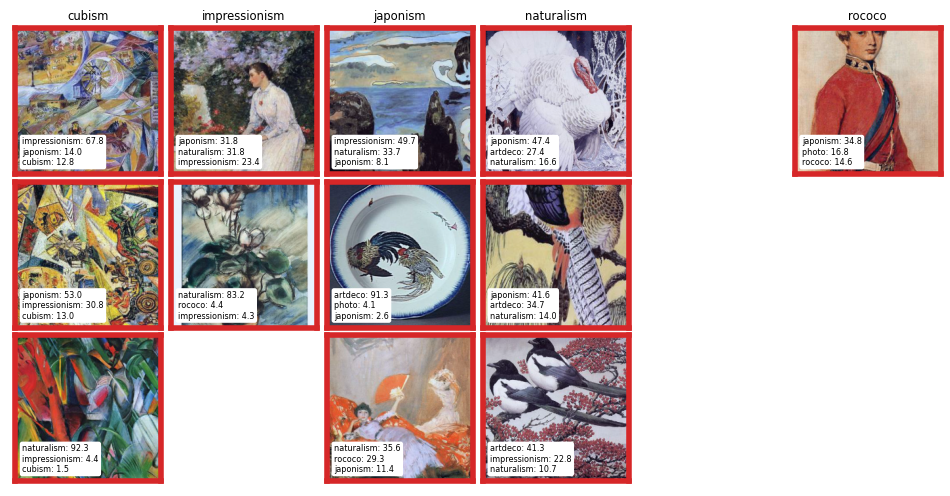
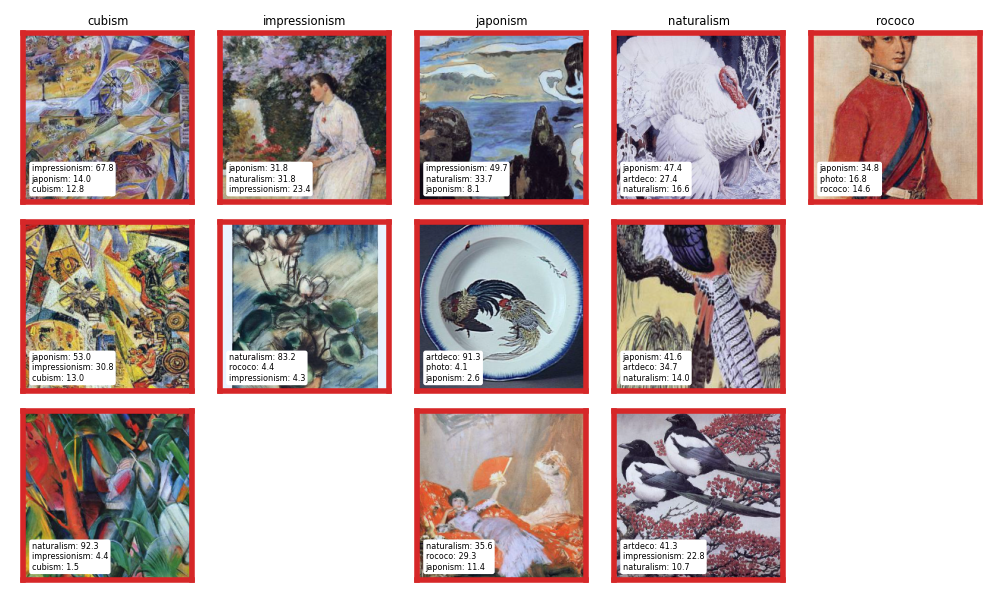
occlusion

diff --git a/README.md b/README.md
@@ -138,9 +138,11 @@ val         0.63    0.62    0.61            0.63         -> 0.80
 В белом прямоугольнике -- top-3 предсказанных класса и их вероятности в процентах.
 
 #### Top-1
+
 ![examples-top-1](images/prediction-examples-top-1-ca8ff65afb5744a2bde060f116d70a22.png)
 
 #### Top-2
+
 ![examples-top-2](images/prediction-examples-top-2-ca8ff65afb5744a2bde060f116d70a22.png)
 
 Объясню часть примеров, потому что top 2 accuracy это как раз моя целевая метрика.
@@ -172,14 +174,25 @@ val         0.63    0.62    0.61            0.63         -> 0.80
 
 И так далее...
 
+
+#### Occlusion maps for top-2
+
+Я хотел воспользоваться [Captum](https://captum.ai/tutorials/Resnet_TorchVision_Interpret), но он у меня не заработал.
+Поэтому я написал самый простой метод сам -- occlusion.
+В подписи я оставил только top-1 и top-2 их вероятностями.
+Последняя строка -- occlusion amplitude -- показывает, насколько меняется вероятность истинного класса (модуль), если закрывать некоторые части изображения.
+Цвета значат следующее.
+Синий -- если удалить квадрат (занулить кусок изображения), то вероятность истинного класса уменьшится.
+Красный -- наоборот.
+
+![occlusion-top-2](images/occlusion-top-2-ca8ff65afb5744a2bde060f116d70a22.png)
+
+
 #### Картины с предсказанными классами не в top-2
+
 ![examples-wrong](images/prediction-examples-wrong-ca8ff65afb5744a2bde060f116d70a22.png)
 
 Интересно, что третий класс на всех этих картинках и есть загаданный.
-
-### XAI?
-
-Интересно сделать occlusion для определения важных участков картин.
 
 ## 2. Кластеризация эмбеддингов (выходы предпоследнего слоя).
 
@@ -295,6 +308,8 @@ https://github.com/marcoancona/DeepExplain
 https://github.com/albermax/innvestigate
 
 https://christophm.github.io/interpretable-ml-book/pixel-attribution.html#deconvnet
+
+https://captum.ai/tutorials/Resnet_TorchVision_Interpret
 
 ## Misc
 
